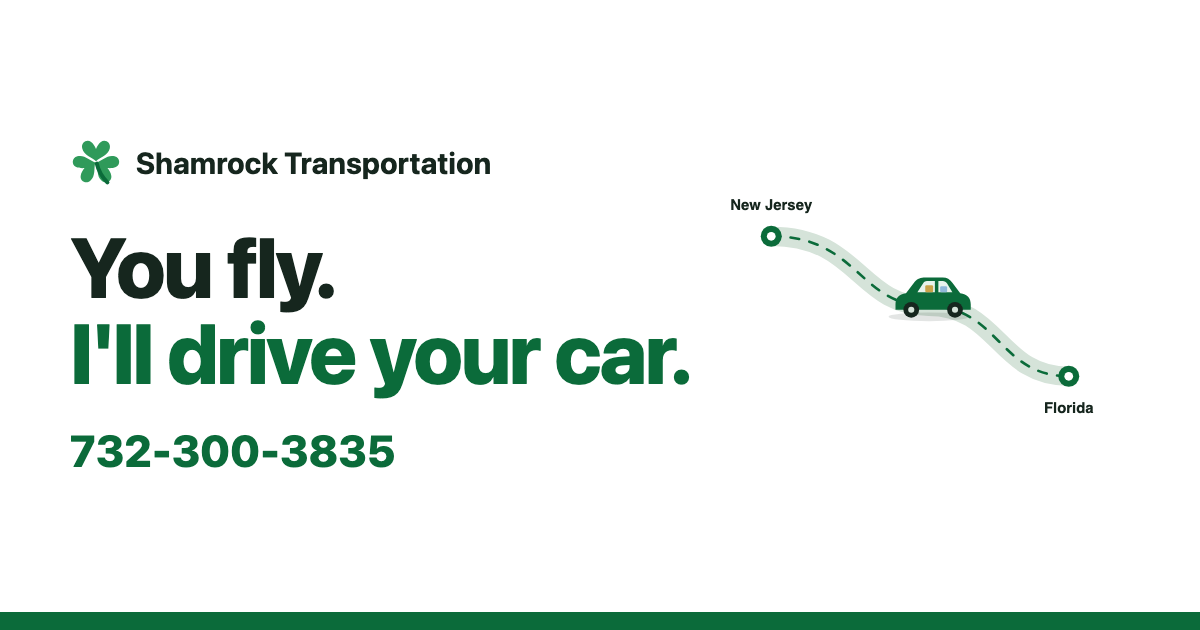
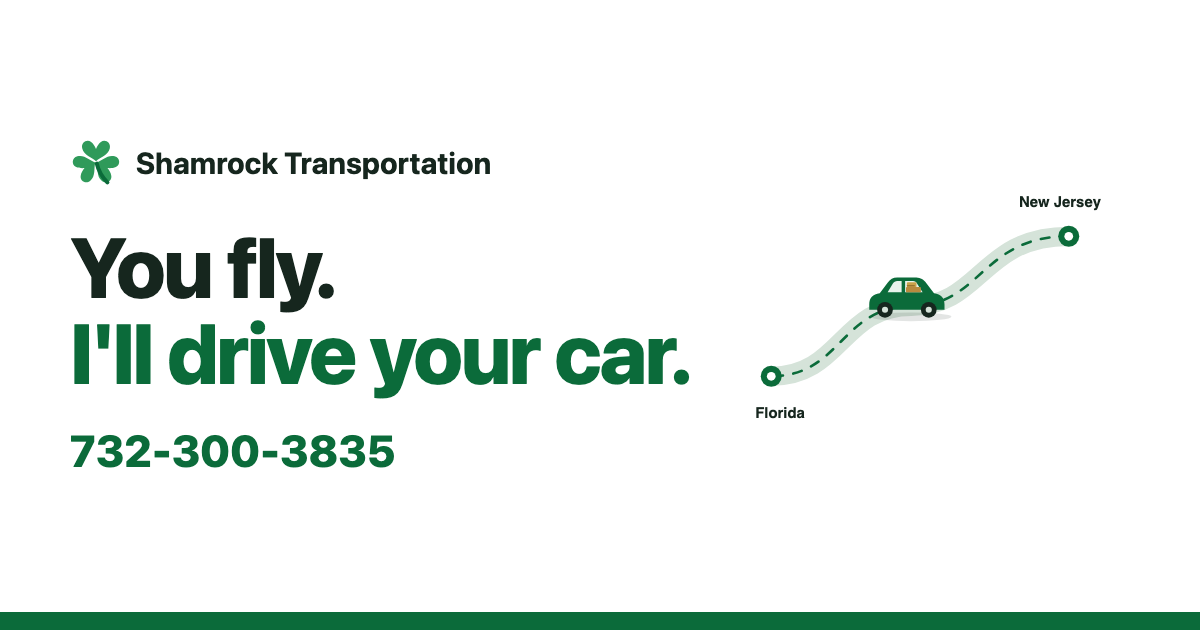
Apply Impeccable sweep and finish review: mirrored route with luggage, say each point once, truck question as heading, desktop bands, landscape and large-text fixes
Claude-Session: https://claude.ai/code/session_01RGiFE58uXHGKGqaw2so79b

Changed region(s): [[0.6167, 0.3619, 0.925, 0.6635], [0.8325, 0.3016, 0.925, 0.3317], [0.5858, 0.3016, 0.6783, 0.3317]]

diff --git a/index.html b/index.html
@@ -6,6 +6,7 @@
 <title>Shamrock Transportation · Ed Brannagan · NJ ↔ Florida car driving</title>
 <meta name="description" content="You fly. I'll drive your car. Ed Brannagan drives snowbirds' cars between New Jersey and Florida for $1 a mile. Call 732-300-3835.">
 <meta name="theme-color" content="#ffffff">
+<meta name="color-scheme" content="light">
 <meta property="og:type" content="website">
 <meta property="og:title" content="Shamrock Transportation · You fly. I'll drive your car.">
 <meta property="og:description" content="Ed Brannagan drives your car between New Jersey and Florida. $1 a mile. Call 732-300-3835.">
@@ -39,6 +40,7 @@ html{-webkit-text-size-adjust:100%;text-size-adjust:100%}
 body{margin:0;background:var(--paper);color:var(--ink);font:400 1.25rem/1.6 var(--font)}
 ::selection{background:#cfe8d8;color:var(--ink)}
 h1,h2,h3,p,ol,ul{margin:0}
+p{text-wrap:pretty}
 a{color:var(--green);text-underline-offset:.18em;text-decoration-thickness:2px}
 a:focus-visible,button:focus-visible{outline:3px solid var(--focus);outline-offset:3px;border-radius:6px}
 .wrap{width:100%;max-width:44rem;margin:0 auto;padding:0 var(--gutter)}
@@ -47,10 +49,10 @@ a:focus-visible,button:focus-visible{outline:3px solid var(--focus);outline-offs
 
 /* ---------- Header: name + full number ---------- */
 .top{border-bottom:1px solid var(--rule)}
-.top .wrap{display:flex;align-items:center;justify-content:space-between;gap:12px;min-height:68px;max-width:72rem}
-.brand{display:flex;align-items:center;gap:10px;font-weight:700;font-size:1.125rem;line-height:1.2;color:var(--ink)}
+.top .wrap{display:flex;flex-wrap:wrap;row-gap:0;align-items:center;justify-content:space-between;gap:12px;min-height:68px}
+.brand{flex:1 1 0;display:flex;align-items:center;gap:10px;min-height:48px;min-width:0;text-decoration:none;font-weight:700;font-size:1.125rem;line-height:1.2;color:var(--ink)}
 .brand svg{width:34px;height:34px;flex:none}
-.top-phone{display:inline-flex;align-items:center;min-height:48px;padding:0 4px;font-weight:700;font-size:1.25rem;white-space:nowrap;color:var(--green);text-decoration:none;border-radius:8px}
+.top-phone{flex:none;display:inline-flex;align-items:center;min-height:48px;padding:0 4px;font-weight:700;font-size:1.25rem;white-space:nowrap;color:var(--green);text-decoration:none;border-radius:8px}
 .top-phone:hover{text-decoration:underline;outline:2px solid var(--focus);outline-offset:2px}
 @media (max-width:400px){.brand{font-size:1rem}.brand svg{width:28px;height:28px}.top-phone{font-size:1.125rem}}
 @media (max-width:339px){.brand span{display:none}}
@@ -85,7 +87,7 @@ section .call{margin-top:32px}
 .steps{list-style:none;padding:0;display:grid;gap:28px;counter-reset:s}
 .steps li{display:grid;grid-template-columns:2.4rem 1fr;gap:4px 14px;counter-increment:s}
 .steps li::before{content:counter(s);grid-row:span 2;font-size:2.4rem;line-height:1;font-weight:800;color:var(--green)}
-.steps h3{font-size:1.5rem;line-height:1.25;font-weight:800}
+.steps h3{font-size:1.5rem;line-height:1.25;font-weight:700}
 .steps p{color:var(--ink-soft)}
 
 /* ---------- Cost ---------- */
@@ -96,14 +98,18 @@ section .call{margin-top:32px}
 .also li{padding-left:1.1em;position:relative}
 .also li::before{content:"";position:absolute;left:0;top:.68em;width:.42em;height:.42em;border-radius:50%;background:var(--leaf)}
 
-/* ---------- FAQ (always open) ---------- */
-.q{font-size:1.5rem;line-height:1.3;font-weight:800;margin-bottom:12px}
-
 /* ---------- Close + footer ---------- */
-.close{text-align:left}
 footer{border-top:1px solid var(--rule);padding:32px 0 44px;font-size:1.125rem;color:var(--ink-soft)}
 footer strong{color:var(--ink)}
 footer p + p{margin-top:6px}
+footer a[href^="tel"]{display:inline-flex;align-items:center;min-height:48px}
+
+/* ---------- Phone held sideways: keep Call on the first screen ---------- */
+@media (orientation:landscape) and (max-height:500px){
+  .hero{padding:24px 0 32px}
+  .hero h1{font-size:2.5rem;margin-bottom:12px}
+  .hero .lead{font-size:1.25rem;margin-bottom:16px}
+}
 
 /* ---------- Desktop ---------- */
 @media (min-width:1024px){
@@ -112,10 +118,11 @@ footer p + p{margin-top:6px}
   .wrap{max-width:72rem;padding:0 48px}
   .hero .wrap{display:grid;grid-template-columns:1.1fr .9fr;gap:64px;align-items:center}
   .route{margin:0;max-width:none}
-  .steps{grid-template-columns:repeat(3,1fr);gap:40px}
-  .steps li{display:block}
-  .steps li::before{display:block;margin-bottom:12px}
-  .steps h3{margin-bottom:6px}
+  /* bands: heading on the left, content on the right (hero has its own grid) */
+  section:not(.hero) .wrap{display:grid;grid-template-columns:.8fr 1.2fr;column-gap:64px;align-items:start}
+  section:not(.hero) h2{grid-row:1 / span 6;margin:0}
+  section:not(.hero) .wrap > :not(h2){grid-column:2}
+  section:not(.hero) .call{margin-top:32px}
 }
 </style>
 </head>
@@ -126,13 +133,14 @@ THESIS: Ed's business card, made into a calm page. White card stock, shamrock gr
 OWN-WORLD: the card itself (green shamrock on white) plus the trip it promises, drawn once as a still route line from New Jersey down to Florida with a packed car on it. Nothing moves.
 STORY: You fly. I'll drive your car. → How it works in 3 steps → $1 a mile → Ed is the driver → when a truck is better (honest) → call.
 FIRST VIEWPORT (phone): name + full number in the header, the headline, one sentence naming Ed and the route, the green Call button with the number on it.
+SOURCE: direction taken straight from Muse brief Vibe 4 (simple / clear); unattended run, no concept roll.
 FORM: one narrow column of large type with wide margins; alternating white and pale-green bands; one green Call button per decision point; no cards, no icons, no motion.
 -->
 <a class="skip" href="#main">Skip to main content</a>
 
 <header class="top">
   <div class="wrap">
-    <a class="brand" href="#top" style="text-decoration:none" aria-label="Shamrock Transportation, back to top">
+    <a class="brand" href="#top" aria-label="Shamrock Transportation, back to top">
       <svg viewBox="0 0 64 64" aria-hidden="true"><use href="#shamrock"/></svg>
       <span>Shamrock Transportation</span>
     </a>
@@ -165,21 +173,23 @@ FORM: one narrow column of large type with wide margins; alternating white and p
       </div>
       <!-- Still picture: the trip, New Jersey down to Florida. Swap for a photo of Ed beside a car once he sends one. -->
       <svg class="route" viewBox="0 0 480 300" role="img" aria-label="Drawing: a car driving the road from New Jersey down to Florida">
+        <g transform="translate(480 0) scale(-1 1)">
         <path d="M70 70 C 170 70, 170 150, 250 150 S 330 230, 410 230" fill="none" stroke="#d5e3d9" stroke-width="22" stroke-linecap="round"/>
         <path d="M70 70 C 170 70, 170 150, 250 150 S 330 230, 410 230" fill="none" stroke="#0b6b3a" stroke-width="3" stroke-dasharray="10 12" stroke-linecap="round"/>
         <circle cx="70" cy="70" r="12" fill="#0b6b3a"/><circle cx="70" cy="70" r="5" fill="#fff"/>
         <circle cx="410" cy="230" r="12" fill="#0b6b3a"/><circle cx="410" cy="230" r="5" fill="#fff"/>
-        <text x="80" y="36" text-anchor="middle">New Jersey</text>
-        <text x="400" y="278" text-anchor="middle">Florida</text>
-        <!-- packed car, side view, heading south -->
-        <g transform="translate(206 104)">
+        </g>
+        <text x="400" y="36" text-anchor="middle">New Jersey</text>
+        <text x="80" y="278" text-anchor="middle">Florida</text>
+        <!-- packed car, side view, heading south-west (drawing is mirrored below) -->
+        <g transform="translate(480 0) scale(-1 1)"><g transform="translate(206 104)">
           <ellipse cx="44" cy="58" rx="46" ry="5" fill="#16261e" opacity=".12"/>
           <path d="M6 44 C6 36 10 32 18 31 L28 18 C31 14 35 13 40 13 L60 13 C65 13 68 15 71 19 L80 31 C88 32 92 36 92 44 L92 50 L6 50 Z" fill="#0b6b3a"/>
           <path d="M31 30 L38 19 C39 18 40 17 42 17 L51 17 L51 30 Z M55 17 L60 17 C62 17 64 18 65 20 L71 30 L55 30 Z" fill="#e8f3ec"/>
-          <rect x="40" y="22" width="9" height="8" rx="1.5" fill="#c9a24a"/><rect x="57" y="23" width="8" height="7" rx="1.5" fill="#8fb8d8"/>
+          <rect x="33" y="24" width="17" height="6" rx="1" fill="#b98a3e"/><rect x="38" y="18.5" width="11" height="5.5" rx="1" fill="#c9a24a"/><rect x="40" y="22" width="9" height="1.2" fill="#8a6528"/>
           <circle cx="24" cy="50" r="9" fill="#16261e"/><circle cx="24" cy="50" r="3.5" fill="#d5e3d9"/>
           <circle cx="74" cy="50" r="9" fill="#16261e"/><circle cx="74" cy="50" r="3.5" fill="#d5e3d9"/>
-        </g>
+        </g></g>
       </svg>
     </div>
   </section>
@@ -189,7 +199,7 @@ FORM: one narrow column of large type with wide margins; alternating white and p
       <h2>How it works</h2>
       <ol class="steps">
         <li><h3>Call me</h3><p>Tell me where your car is, where it's going, and when.</p></li>
-        <li><h3>Fly</h3><p>Pack the car with your things, hand me the keys, and catch your flight.</p></li>
+        <li><h3>Fly</h3><p>Hand me the keys and catch your flight.</p></li>
         <li><h3>Your car is waiting</h3><p>I drive it down to Florida. In the spring, I drive it back to New Jersey.</p></li>
       </ol>
     </div>
@@ -201,7 +211,7 @@ FORM: one narrow column of large type with wide margins; alternating white and p
       <!-- RATE: $1 a mile, from Ed via Ellie 2026-10-15. What it includes (gas, tolls, return trip) is not confirmed. -->
       <p class="price">$1 a mile</p>
       <p class="lead">Call me with your route and I'll tell you the total.</p>
-      <a class="call" href="tel:+17323003835"><b>Call for your price</b><span>732-300-3835</span></a>
+      <a class="call" href="tel:+17323003835"><b>Call for your total</b><span>732-300-3835</span></a>
     </div>
   </section>
 
@@ -209,27 +219,24 @@ FORM: one narrow column of large type with wide margins; alternating white and p
     <div class="wrap">
       <!-- PHOTO: a head-and-shoulders photo of Ed goes here once he sends one. -->
       <h2>One driver: me</h2>
-      <p class="lead">I drive your car myself. The number on this page is my own cell, so you talk to me, not a dispatcher.</p>
-      <p class="lead">Because I drive it instead of putting it on a truck, you can pack the car full.</p>
+      <p class="lead">I drive your car myself. It doesn't go on a truck, so you can pack it full.</p>
       <ul class="also">
         <li>Local and long-distance trips</li>
-        <li>Airport runs anywhere in Florida</li>
+        <li>Airport service anywhere in Florida</li>
       </ul>
     </div>
   </section>
 
   <section id="truck">
     <div class="wrap">
-      <h2>An honest answer</h2>
-      <p class="q">When is a truck carrier the better choice?</p>
+      <h2>When is a truck the better choice?</h2>
       <p class="lead">If your car doesn't run, or you don't want any miles put on it, ship it on a truck. If you're not sure, call me and I'll tell you straight.</p>
     </div>
   </section>
 
-  <section class="mist close" id="call">
+  <section class="mist" id="call">
     <div class="wrap">
       <h2>Heading south this winter?</h2>
-      <p class="lead">I'm one call away.</p>
       <a class="call" href="tel:+17323003835"><b>Call Ed</b><span>732-300-3835</span></a>
     </div>
   </section>
@@ -239,17 +246,17 @@ FORM: one narrow column of large type with wide margins; alternating white and p
   <div class="wrap">
     <p><strong>Shamrock Transportation</strong></p>
     <p>Ed Brannagan, owner and driver</p>
-    <p>New Jersey ↔ Florida · <a href="tel:+17323003835">732-300-3835</a></p>
+    <p>New Jersey and Florida · <a href="tel:+17323003835">732-300-3835</a></p>
   </div>
 </footer>
 
 <script>
-/* Season: March–August the close asks about the trip home. No motion anywhere on this page. */
+/* Season: March–August the close asks about the trip north. No motion anywhere on this page. */
 (function(){
   var m = new Date().getMonth();
   if (m >= 2 && m <= 7) {
     var h = document.querySelector('#call h2');
-    if (h) h.textContent = 'Heading home this spring?';
+    if (h) h.textContent = 'Heading home to New Jersey?';
   }
 })();
 </script>

diff --git a/HANDOFF.md b/HANDOFF.md
@@ -1,0 +1,52 @@
+# Shamrock Transportation (Vibe 4: simple / clear) — handoff at ~60%
+
+**Live:** https://10elizabethbell.github.io/shamrockSimpleClear/ · **Repo:** https://github.com/10elizabethbell/shamrockSimpleClear · **Built:** 2026-10-15 from Muse brief (run 2026-10-15, "Vibe 4 — Simple / clear")
+
+## What's built
+- **One short page, single `index.html`, no images, nothing moves.** About 15 KB. The only script swaps the closing headline to "Heading home this spring?" from March to August.
+- **The look: Ed's business card made into a page.** White ground, green-black text, shamrock green for the Call buttons and key words, pale-green bands every other section. No cards, no icons, no motion. Big type: body 20px, the hero line 24px, section headings 32–44px in sentence case, buttons 72px tall.
+- **Header:** drawn shamrock + "Shamrock Transportation" on the left, the full number 732-300-3835 on the right (tap to call).
+- **Hero:** "You fly. / I'll drive your car." (from the card's domain, youflyilldrive.com), "I'm Ed Brannagan. I drive your car between New Jersey and Florida, so you don't have to.", one green **Call Ed / 732-300-3835** button, and "This is my own cell. You'll talk to me." Beside it (below it on phones) a still drawing: a dashed road from a New Jersey pin to a Florida pin with a packed green car on it.
+- **Sections, in the brief's order:** How it works (Call me → Fly → Your car is waiting) → What it costs ("$1 a mile", "Call me with your route and I'll tell you the total.", Call button) → One driver: me (Ed drives it himself, his own cell, "you can pack the car full", plus the card's two other services) → An honest answer (when a truck carrier is the better choice, always visible) → Heading south this winter? (Call button) → footer (name, Ed, NJ ↔ Florida, number).
+- **Contact:** every call link is `tel:+17323003835`. No text button, because the brief says texting is unknown.
+- **Shareables:** `favicon.svg` and `apple-touch-icon.png` (white shamrock on green), `og.png` 1200x630 (name, headline, number, route drawing).
+
+## Assumptions I made
+- **$1 a mile is on the page.** The brief (written before it was confirmed) says to keep rates as a placeholder, but your sibling builds record "$1 a mile (Ed, via Ellie, 2026-10-15)", so I used it. Marked with a `RATE` comment in the HTML.
+- **How it works is kept** because this vibe's brief asks for it, even though you cut it from the other Shamrock sites once the price was on the page. Cut it if you want the page shorter.
+- **"I drive your car myself" / "not a dispatcher"** follow the brief's "Ed drives it himself; the number is his cell". Confirm he drives every job.
+- **"Pack the car with your things" (step 2) and "you can pack the car full"** follow the brief's differentiator. Not confirmed by Ed; there may be weight or contents limits.
+- **"In the spring, I drive it back to New Jersey"** comes from your description of the business (2026-10-13).
+- **The honest answer** (truck carrier if the car doesn't run or you don't want miles on it) is general driveaway knowledge in Ed's voice, not something he said.
+- **The shamrock is a drawing** (same shape as the other Shamrock builds), not the card's emblem, because the brief says to ask before using a card scan. Green `#0b6b3a` is a readable shamrock green, not sampled from the card.
+- **I chose the look without the Impeccable decision page** (unattended run). Options I weighed: the business card itself (picked), an AAA TripTik strip map, an interstate guide sign (already used by Owner Trust and Transparent Pricing), hotel stationery (Premium Concierge's), a mile-marker column, a valet key tag.
+- **The card tagline ("Life is a Highway... Drive it All Night Long") is left off.** "All night long" could worry a careful 60+ customer about a tired driver. Easy to add to the footer if you or Ed want it.
+
+## Placeholders and gaps
+- **No photo of Ed.** The research says his face is the strongest trust signal. There's no visible placeholder (to keep the page clean); `<!-- PHOTO -->` comments mark where a portrait goes (One driver section) and where a photo of Ed with a car could replace the hero drawing.
+- **No email and no Facebook**, so the footer email and the "see more of my work" Facebook link are absent by design.
+- **Not on the page, on purpose:** insurance, what the $1 a mile includes, hours, years in business, reviews, exact towns.
+- **youflyilldrive.com** may be unregistered (brief: RDAP 404 on 2026-10-13, inconclusive recheck). Verify at a registrar before offering it.
+
+## Questions for the owner
+1. Does $1 a mile include gas, tolls and your trip back? Is there a minimum (airport runs, short local trips)?
+2. Do you take texts? (If yes, a "Text Ed" link can sit under the Call button.)
+3. What insurance covers the car and what's inside it while you drive?
+4. Do you drive every car yourself?
+5. Any packing limits (weight, valuables, nothing blocking the mirrors)?
+6. What does "Airport services anywhere in Florida" mean in practice?
+7. Can we use the shamrock from your card, and a photo of you (ideally beside a car)?
+8. Which months do you head south and north? How much notice do you need?
+9. Years doing this, and a couple of customers willing to be quoted?
+10. Want youflyilldrive.com registered and pointed here?
+
+## Ideas not built (yours to pick)
+- **Runner-up world: an AAA TripTik strip map** — the route as a column of flip-strips from NJ down to FL, very familiar to this audience.
+- **Text Ed link** under the Call button once Ed confirms he texts (pre-written: "Hi Ed, I'd like my car driven from ___ to ___ around ___.").
+- **Atkinson Hyperlegible** as the body font (the research's pick for this age group), if you want to step off the system font.
+- **A "What's included" line** under $1 a mile once Ed answers question 1.
+- **Example trip totals** (e.g. Toms River → Naples) once Ed names his usual towns.
+
+## Not verified
+- Real-device tap-to-call on iPhone and Android, and inside Facebook's in-app browser.
+- How the page reads to an actual 60-year-old (the research suggests a 5–6 person test).
